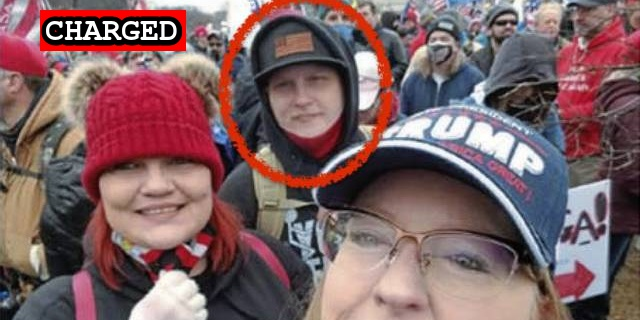
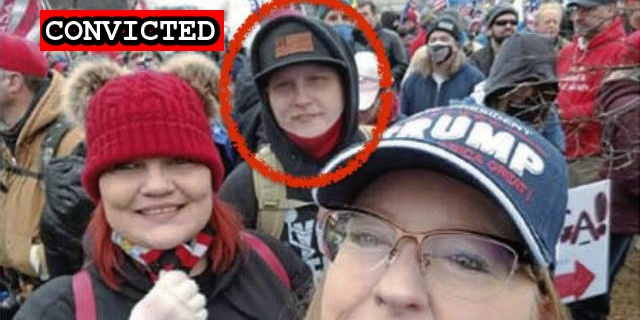
Peterson guilty plea

Changed region(s): [[0.0938, 0.0312, 0.375, 0.1875]]

diff --git a/docs/_suspects/russell-peterson.md b/docs/_suspects/russell-peterson.md
@@ -3,13 +3,13 @@ name: Russell Peterson
 lastName: Peterson
 aka:
 residence: Pennsylvania
-status: Charged
+status: Convicted
 date: 2021-02-12
 charged: 2021-02-12
 indicted:
-convicted: 
-sentenced: 
-dismissed: 
+convicted: 2021-09-08
+sentenced:
+dismissed:
 deceased:
 age: 34
 occupation: Unemployed
@@ -29,6 +29,11 @@ author: seditiontrack
 layout: suspect
 published: true
 caseNumber: 1:21-cr-309
+charges:
+- code: 18 USC § 5104(e)(2)(G)
+  title: Parading, Demonstrating or Picketing in a Capitol Building
+  url: https://www.law.cornell.edu/uscode/text/40/5104
+  felony: false
 ---
 - [News Report](https://triblive.com/local/regional/beaver-county-man-charged-in-connection-with-capitol-riot/)
 - [Statement of Facts](https://www.justice.gov/usao-dc/case-multi-defendant/file/1367016/download)
